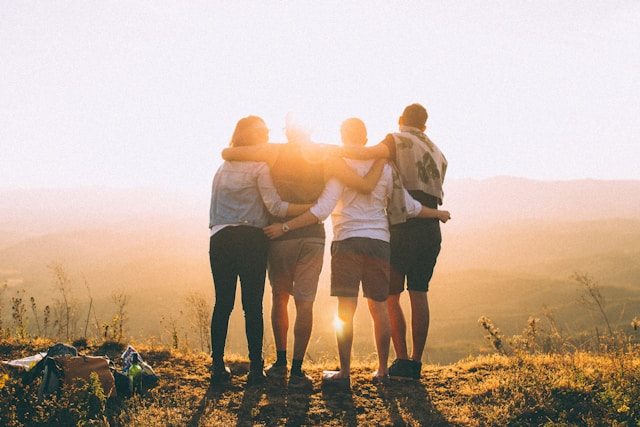
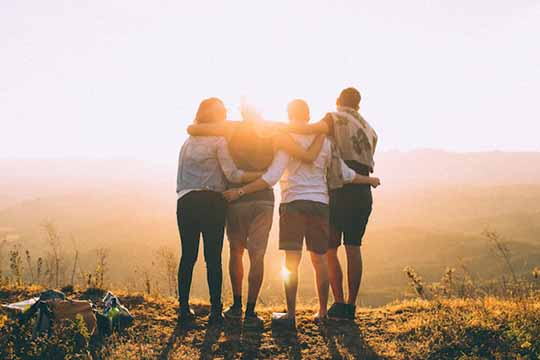
changed image quality and added backdrop-filter: blur(8px);

diff --git a/style/style.scss b/style/style.scss
@@ -134,9 +134,9 @@ header {
   // @extend .section-light;
   // background: linear-gradient(90deg, $dark-color 0%, #444 100%);
   // background: radial-gradient(circle, #444 0%, $dark-color 80%);
-  // background-color: $dark-color;
   color: set-text-color($dark-color);
   text-wrap: balance;
+  background: $dark-color;
   background: url('../images/fuer_wen.jpg') no-repeat fixed center/cover;
   min-height: 50dvh;
   position: relative;
@@ -144,6 +144,8 @@ header {
   &::before {
     content: '';
     background-color: rgba(0, 0, 0, 0.6);
+    backdrop-filter: blur(8px);
+
     width: 100%;
     height: 100%;
     position: absolute;

diff --git a/style/style.css b/style/style.css
@@ -183,6 +183,7 @@ header svg {
 .section-photo {
   color: #eee5cd;
   text-wrap: balance;
+  background: #333;
   background: url("../images/fuer_wen.jpg") no-repeat fixed center/cover;
   min-height: 50dvh;
   position: relative;
@@ -190,6 +191,8 @@ header svg {
 .section-photo::before {
   content: "";
   background-color: rgba(0, 0, 0, 0.6);
+  -webkit-backdrop-filter: blur(8px);
+          backdrop-filter: blur(8px);
   width: 100%;
   height: 100%;
   position: absolute;
